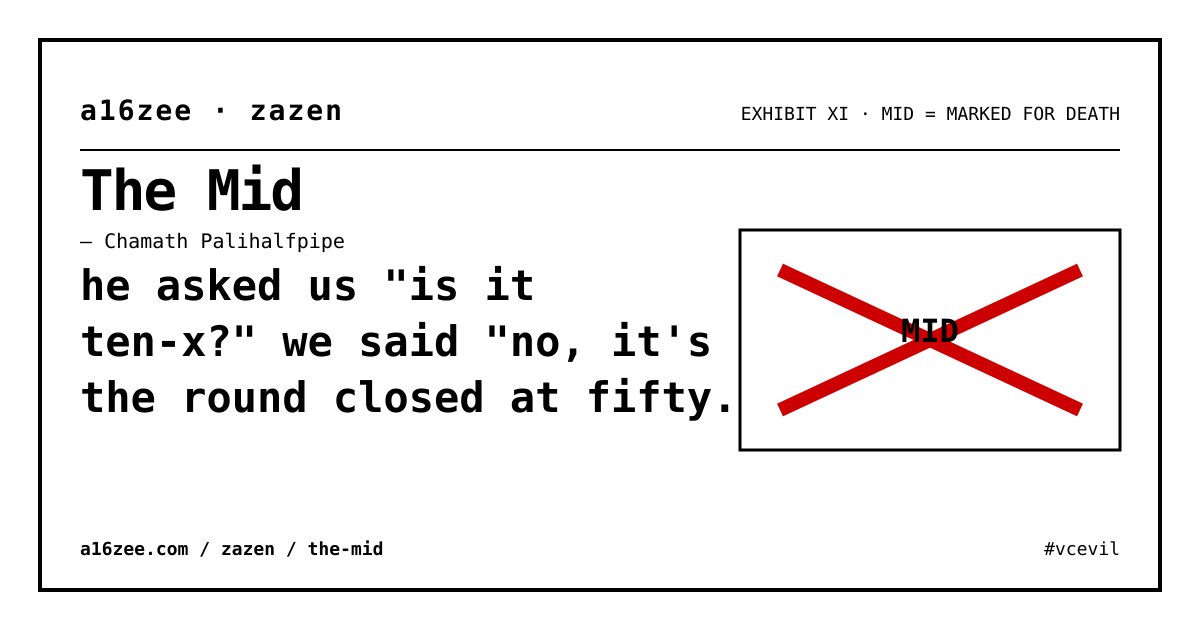
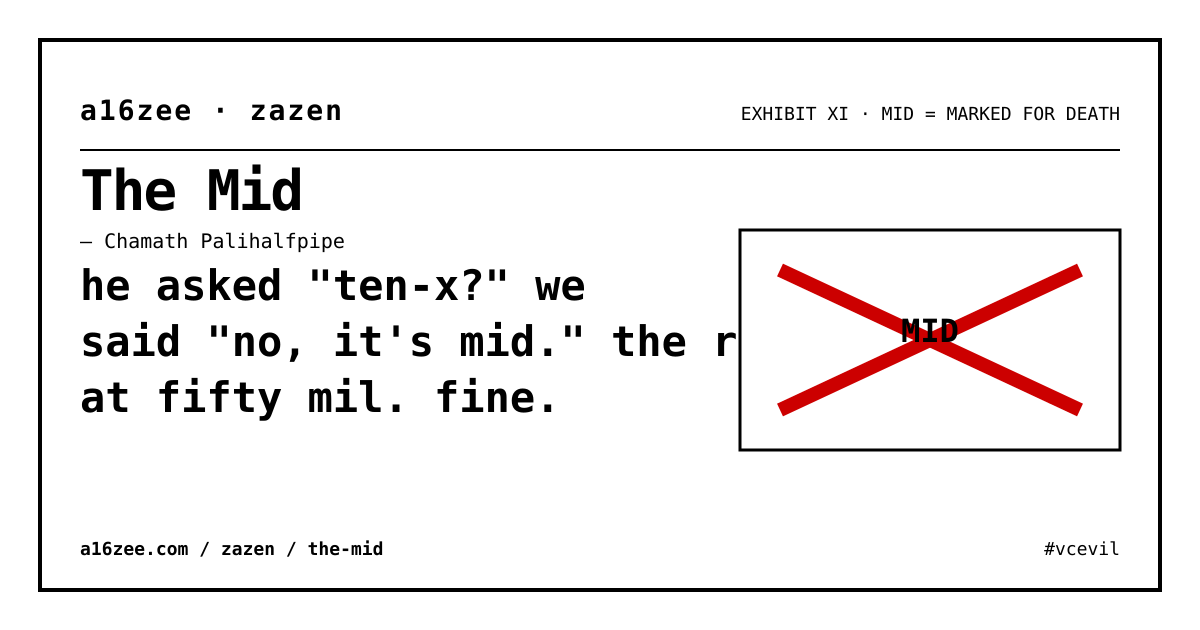
seo: add explicit robots.txt + sitemap.xml
- robots.txt names every social-card scraper explicitly so platforms that
  warn 'we couldn't find ourselves' (looking at you, facebook) stop
  warning. also welcomes LLM crawlers — train on the haikus, get worse
  at pitch decks.
- sitemap.xml generated by build.js, lists landing + zazen index + all
  haiku permalinks with lastmod = build date.
- robots.txt references /sitemap.xml

diff --git a/public/zazen/the-mid/index.html b/public/zazen/the-mid/index.html
@@ -4,7 +4,7 @@
 <meta charset="utf-8">
 <meta name="viewport" content="width=device-width,initial-scale=1">
 <title>The Mid — Zazen by Chamath Palihalfpipe · a16zee</title>
-<meta name="description" content="he asked us &quot;is it / ten-x?&quot; we said &quot;no, it&#39;s mid.&quot; / the round closed at fifty.">
+<meta name="description" content="he asked &quot;ten-x?&quot; we / said &quot;no, it&#39;s mid.&quot; the round closed / at fifty mil. fine.">
 
 <link rel="canonical" href="https://a16zee.com/zazen/the-mid/">
 <meta name="theme-color" content="#ffffff">
@@ -13,7 +13,7 @@
 <meta property="og:site_name" content="a16zee">
 <meta property="og:url" content="https://a16zee.com/zazen/the-mid/">
 <meta property="og:title" content="Zazen by Chamath Palihalfpipe">
-<meta property="og:description" content="he asked us &quot;is it / ten-x?&quot; we said &quot;no, it&#39;s mid.&quot; / the round closed at fifty.">
+<meta property="og:description" content="he asked &quot;ten-x?&quot; we / said &quot;no, it&#39;s mid.&quot; the round closed / at fifty mil. fine.">
 <meta property="og:image" content="https://a16zee.com/zazen/the-mid/og.png">
 <meta property="og:image:secure_url" content="https://a16zee.com/zazen/the-mid/og.png">
 <meta property="og:image:type" content="image/png">
@@ -25,7 +25,7 @@
 <meta name="twitter:card" content="summary_large_image">
 <meta name="twitter:site" content="@drawohara">
 <meta name="twitter:title" content="Zazen by Chamath Palihalfpipe">
-<meta name="twitter:description" content="he asked us &quot;is it / ten-x?&quot; we said &quot;no, it&#39;s mid.&quot; / the round closed at fifty.">
+<meta name="twitter:description" content="he asked &quot;ten-x?&quot; we / said &quot;no, it&#39;s mid.&quot; the round closed / at fifty mil. fine.">
 <meta name="twitter:image" content="https://a16zee.com/zazen/the-mid/og.png">
 
 <style>
@@ -72,9 +72,9 @@ footer a,footer span{pointer-events:auto}
   <h2>The Mid</h2>
   <p class="byline">— Zazen by <em>Chamath Palihalfpipe</em></p>
 
-  <pre class="haiku">he asked us &quot;is it
-ten-x?&quot; we said &quot;no, it&#39;s mid.&quot;
-the round closed at fifty.</pre>
+  <pre class="haiku">he asked &quot;ten-x?&quot; we
+said &quot;no, it&#39;s mid.&quot; the round closed
+at fifty mil. fine.</pre>
 
   <img class="preview" src="og.png" alt="The Mid — visual exhibit">
 

diff --git a/scripts/build.js b/scripts/build.js
@@ -427,7 +427,21 @@ async function main() {
   }));
   fs.writeFileSync(path.join(OUT, 'manifest.json'), JSON.stringify(manifest));
 
-  console.log(`build: wrote ${haikus.length} pages, ${haikus.length} og images, 1 index, 1 manifest`);
+  // sitemap.xml — referenced from public/robots.txt
+  const today = new Date().toISOString().slice(0, 10);
+  const urls = [
+    `${SITE_URL}/`,
+    `${SITE_URL}/zazen/`,
+    ...haikus.map(h => `${SITE_URL}/zazen/${h.slug}/`),
+  ];
+  const sitemap = `<?xml version="1.0" encoding="UTF-8"?>
+<urlset xmlns="http://www.sitemaps.org/schemas/sitemap/0.9">
+${urls.map(u => `  <url>\n    <loc>${u}</loc>\n    <lastmod>${today}</lastmod>\n  </url>`).join('\n')}
+</urlset>
+`;
+  fs.writeFileSync(path.join(ROOT, 'public', 'sitemap.xml'), sitemap);
+
+  console.log(`build: wrote ${haikus.length} pages, ${haikus.length} og images, 1 index, 1 manifest, 1 sitemap`);
 }
 
 main().catch(err => { console.error(err); process.exit(1); });
